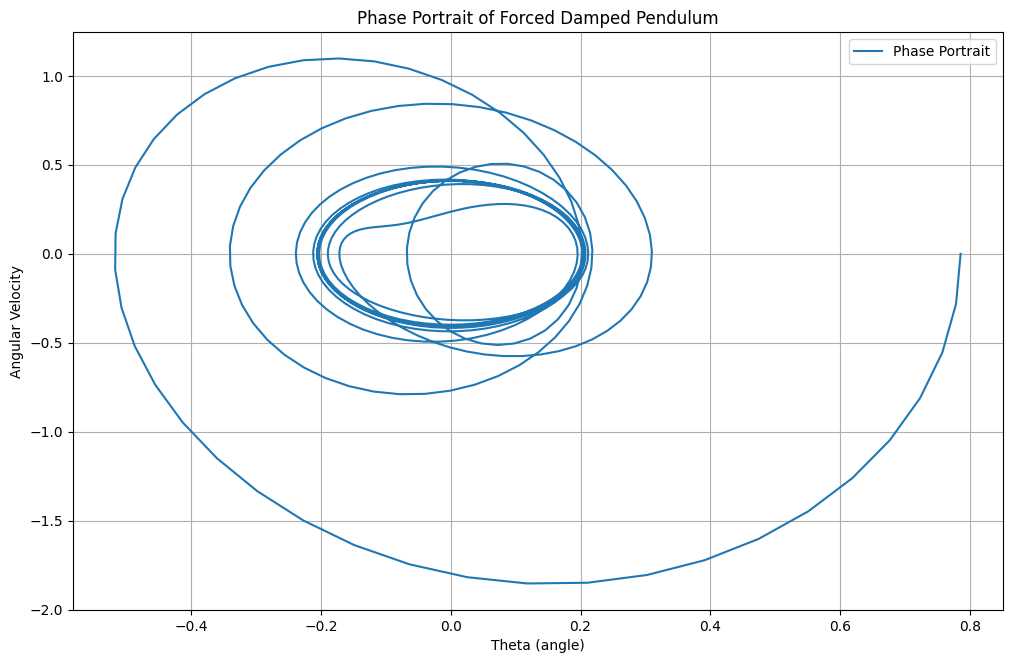
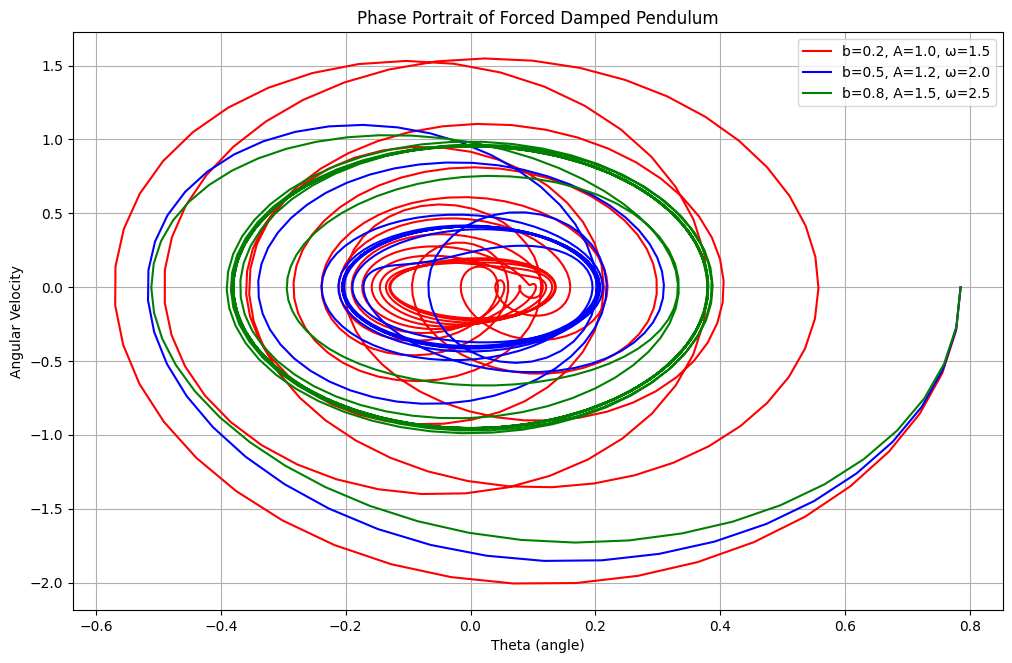
Second

diff --git a/docs/1 Physics/1 Mechanics/Problem_2.md b/docs/1 Physics/1 Mechanics/Problem_2.md
@@ -66,23 +66,117 @@ Beyond simple oscillations, varying \( b \), \( A \), and \( \omega \) leads to 
 
 ## Graphical Representations
 
-- **Time Series**: Plots of \( \theta(t) \) to observe periodicity or chaos.
-  ![Time Series](time_series.png)
+- **Time Series**: Plots of \( \theta(t) \) to observe periodicity or chaos. <a href="https://colab.research.google.com/drive/1bj51sHI9Xlik4Y6hWdOUKXCk4eS9XUBJ#scrollTo=4wrl1_4bTDLt" target="_blank">Learn more.</a>
+
+```python
+import numpy as np
+import matplotlib.pyplot as plt
+from scipy.integrate import solve_ivp
+
+def forced_damped_pendulum(t, y, b, g, L, A, omega_d):
+    """ODE system for a forced damped pendulum."""
+    theta, omega = y  # omega represents angular velocity (dtheta/dt)
+    dtheta_dt = omega
+    domega_dt = -b * omega - (g/L) * np.sin(theta) + A * np.cos(omega_d * t)  # Corrected force term
+
+    return [dtheta_dt, domega_dt]
+# Parameters
+g = 9.81  # Gravity (m/s^2)
+L = 1.0   # Length of pendulum (m)
+y0 = [np.pi / 4, 0]  # Initial angle = 45 degrees, initial velocity = 0
+
+# Different parameter sets to compare
+cases = [
+    {"b": 0.2, "A": 1.0, "omega_d": 1.5, "label": "b=0.2, A=1.0, ω=1.5"},
+    {"b": 0.5, "A": 1.2, "omega_d": 2.0, "label": "b=0.5, A=1.2, ω=2.0"},
+    {"b": 0.8, "A": 1.5, "omega_d": 2.5, "label": "b=0.8, A=1.5, ω=2.5"},
+]
+
+# Time range
+t_span = (0, 50)
+t_eval = np.linspace(t_span[0], t_span[1], 1000)
+
+plt.figure(figsize=(12, 7.5))
+
+# Solve and plot for different cases
+for case in cases:
+    sol = solve_ivp(forced_damped_pendulum, t_span, y0, t_eval=t_eval,
+                     args=(case["b"], g, L, case["A"], case["omega_d"]))
+    plt.plot(sol.t, sol.y[0], label=case["label"])
+
+# Formatting the plot
+plt.xlabel('Time (s)')
+plt.ylabel('Angle (radians)')
+plt.title('Forced Damped Pendulum Motion (Multiple Instances)')
+plt.legend()
+plt.grid(True)
+plt.show()
+```
+
+![Time Series](time_series.png)
+
 - **Phase Portraits**: \( \theta \) vs. \( \frac{d\theta}{dt} \) to analyze system stability and attractors.
-  ![Phase Portraits](phase_portrait.png)
+
+```python
+import numpy as np
+import matplotlib.pyplot as plt
+from scipy.integrate import solve_ivp
+
+def forced_damped_pendulum(t, y, b, g, L, A, omega):
+    """ODE system for a forced damped pendulum."""
+    theta, omega_dot = y
+    dtheta_dt = omega_dot
+    domega_dt = -b * omega_dot - (g/L) * np.sin(theta) + A * np.cos(omega * t)
+    return [dtheta_dt, domega_dt]
+
+# Parameters
+g = 9.81  # Gravity (m/s²)
+L = 1.0   # Length of pendulum (m)
+y0 = [np.pi / 4, 0]  # Initial angle = 45 degrees, initial velocity = 0
+
+# Different parameter sets to compare
+cases = [
+    {"b": 0.2, "A": 1.0, "omega": 1.5, "color": "r", "label": "b=0.2, A=1.0, ω=1.5"},
+    {"b": 0.5, "A": 1.2, "omega": 2.0, "color": "b", "label": "b=0.5, A=1.2, ω=2.0"},
+    {"b": 0.8, "A": 1.5, "omega": 2.5, "color": "g", "label": "b=0.8, A=1.5, ω=2.5"},
+]
+
+# Time range
+t_span = (0, 50)
+t_eval = np.linspace(t_span[0], t_span[1], 1000)
+
+plt.figure(figsize=(12, 7.5))
+
+# Solve and plot for different cases
+for case in cases:
+    sol = solve_ivp(forced_damped_pendulum, t_span, y0, t_eval=t_eval,
+                     args=(case["b"], g, L, case["A"], case["omega"]))
+
+    plt.plot(sol.y[0], sol.y[1], color=case["color"], label=case["label"])
+
+# Formatting
+plt.xlabel('Theta (angle)')
+plt.ylabel('Angular Velocity')
+plt.title('Phase Portrait of Forced Damped Pendulum')
+plt.legend()
+plt.grid(True)
+
+plt.show()
+```
+
+![Phase Portraits](phase_portrait.png)
+
 - **Poincaré Sections**: Used to detect chaotic behavior by sampling system states at discrete time intervals.
   ![Poincaré Sections](poincare_section.png)
 - **Bifurcation Diagrams**: Show transitions to complex motion as system parameters are varied, revealing period-doubling cascades leading to chaos.
   ![Bifurcation Diagrams](bifurcation_diagram.png)
 - **Lyapunov Exponents**: Used to quantify chaos by measuring the rate of separation of nearby trajectories.
   ![Lyapunov Exponents](lyapunov_exponent.png)
-- **Fourier Spectra**: Analyzes frequency components of motion to distinguish between periodic, quasiperiodic, and chaotic behavior.
-  ![Fourier Spectra](fourier_spectrum.png)
-
-## Python Simulation
-
-Simulation of the motion of a forced damped pendulum using the Runge-Kutta method and generates multiple plots. <a href="https://colab.research.google.com/drive/1DxEEF3sV84UmsNMD-xvkT1wXUKGnK6xV#scrollTo=h1z8EhVFUSQa" target="_blank">Learn more.</a>
 
 ## Conclusion
 
 This study of the forced damped pendulum provides insight into nonlinear dynamics, resonance, and chaos, with applications in physics and engineering. By using numerical simulations, we can explore a range of behaviors from simple periodic motion to chaotic dynamics, offering deeper understanding and practical implications in various scientific domains. The forced damped pendulum serves as a fundamental model for diverse physical systems, reinforcing the significance of nonlinear dynamics in both theoretical and applied research.
+
+```
+
+```
